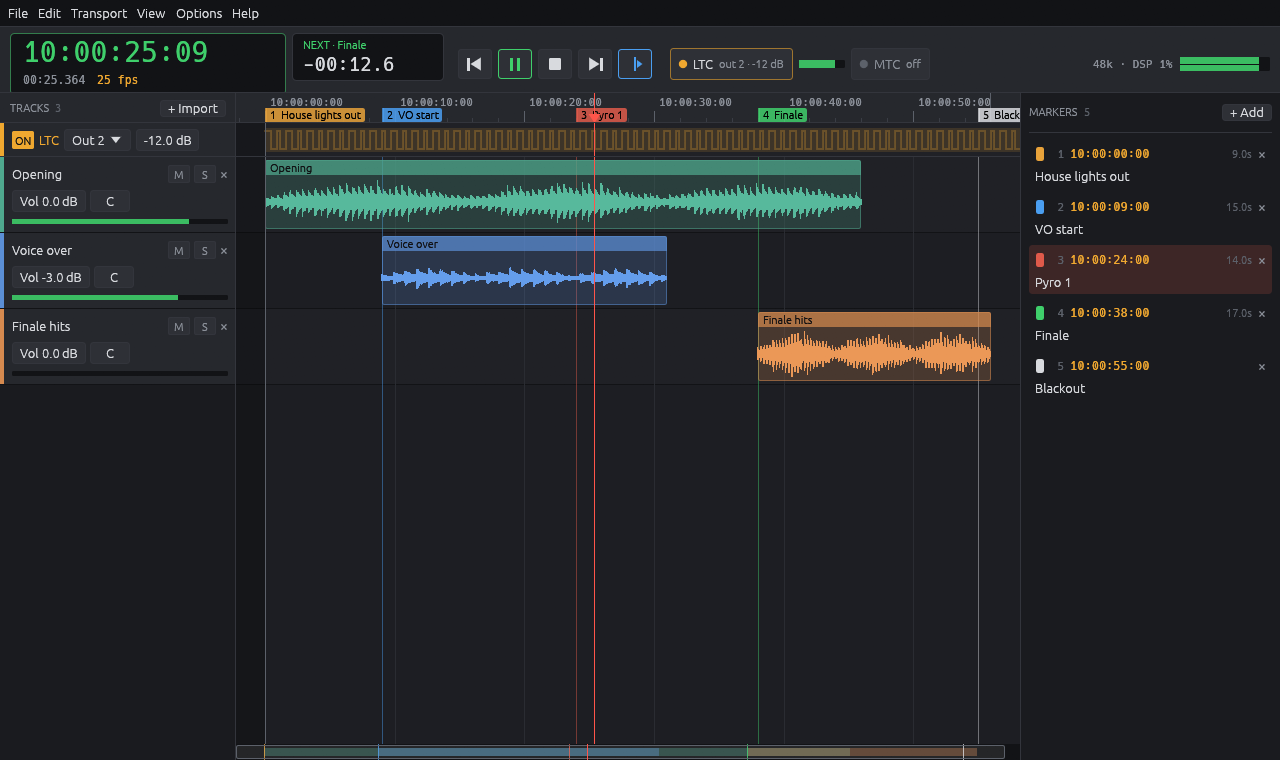
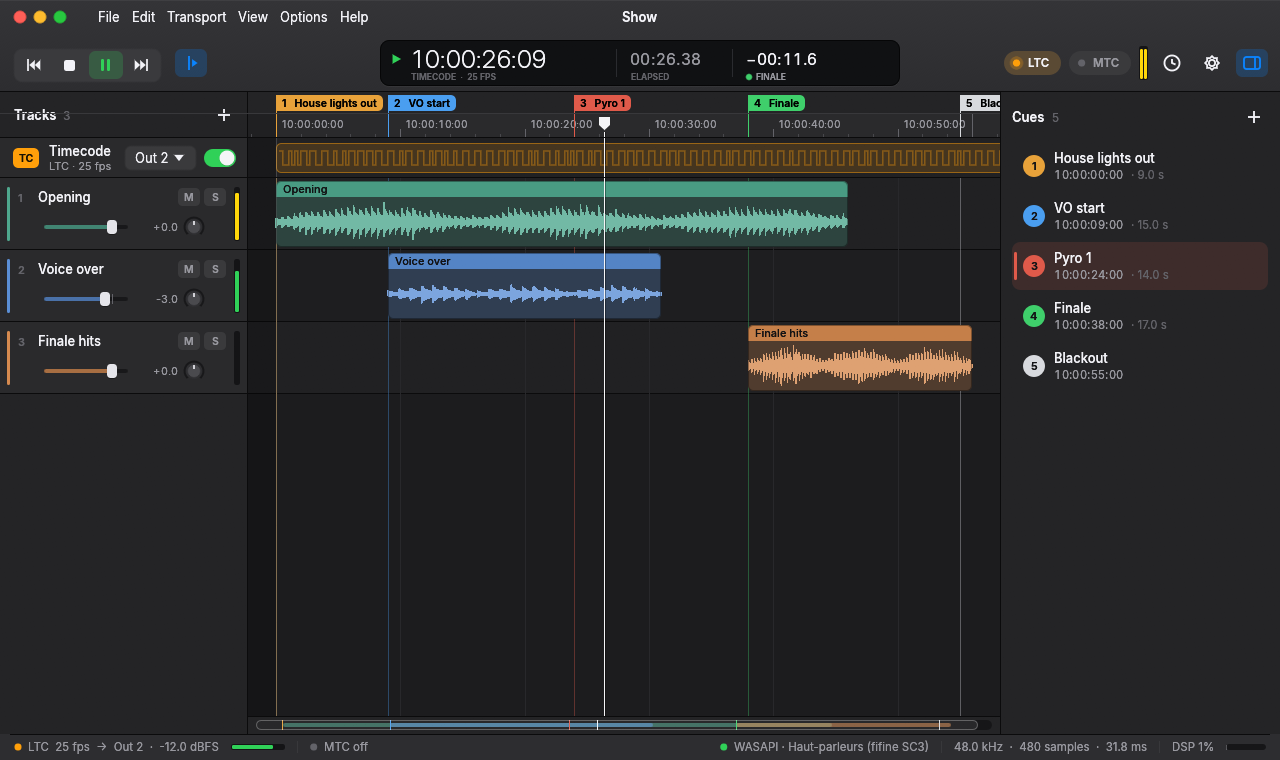
docs: refresh screenshot and document typography licensing

Changed region(s): [[0.0, 0.0, 1.0, 0.5145], [0.0, 0.9382, 0.9375, 1.0], [0.125, 0.4842, 0.1562, 0.5145]]

diff --git a/README.md b/README.md
@@ -36,6 +36,10 @@ audio is.**
   drop, automatic reconnection when an audio device drops out, Reaper-style shortcuts.
 - Decodes WAV, AIFF, FLAC, MP3, AAC/M4A, ALAC and Ogg Vorbis; files are converted once to the
   device rate with a high-quality FFT resampler.
+- A **macOS-style interface**: frameless window with traffic lights, a unified toolbar around a
+  Logic-style LCD, settings sheets and a cue source list. It uses Apple's San Francisco font when
+  it is installed on the machine (read at runtime, never redistributed) and the embedded
+  [Inter](https://rsms.me/inter/) typeface otherwise.
 
 ## Download & run
 
@@ -104,4 +108,8 @@ d'environ 8 Mo, sans installation.
 
 ## License
 
-[MIT](LICENSE)
+CueLine is released under the [MIT](LICENSE) license.
+
+The embedded Inter typeface (`assets/fonts`) is © The Inter Project Authors and distributed under
+the [SIL Open Font License 1.1](assets/fonts/OFL.txt). No Apple font is included in this
+repository or in release builds.

diff --git a/CHANGELOG.md b/CHANGELOG.md
@@ -13,3 +13,5 @@ All notable changes to this project are documented here. The format follows
 - Output routing for the program mix and LTC; WASAPI by default, optional ASIO.
 - Offline 24-bit WAV export (LTC only, mix + LTC, stereo mix + LTC).
 - `.cueline` JSON projects with relative media paths, undo/redo, drag & drop.
+- macOS-style interface: frameless window, unified toolbar with LCD, sheets, cue source list,
+  San Francisco when installed and embedded Inter (OFL) otherwise.
